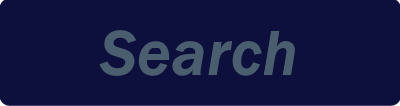
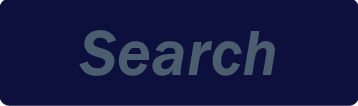
Minor improvements to GUI and menu

diff --git a/src/image/blender/State/BlendState.java b/src/image/blender/State/BlendState.java
@@ -5,6 +5,7 @@ import image.blender.Manager.Content;
 import image.blender.Manager.Input;
 import image.blender.Manager.StateManager;
 
+import java.awt.BasicStroke;
 import java.awt.Color;
 import java.awt.Font;
 import java.awt.FontMetrics;
@@ -22,7 +23,7 @@ import javax.imageio.ImageIO;
 public class BlendState extends State
 {
 	private int timer = 0;
-	private int waitTime = 30;
+	private int waitTime = MIN_WAIT_TIME * NUM_SPEEDS;
 	private boolean paused = false;
 
 	private int index = 0;
@@ -33,9 +34,12 @@ public class BlendState extends State
 	private boolean loading = true;
 	private ArrayList<String> loadStatus = new ArrayList<String>();
 
+	// TODO Increase margins
 	public static final int IMAGE_WIDTH = 1000;
 	public static final int IMAGE_HEIGHT = 1000;
-	public static final int NUM_PAGES = 1;
+	public static final int MIN_WAIT_TIME = 20;
+	public static final int NUM_SPEEDS = 3;
+	public static final int NUM_PAGES = 3;
 
 	public BlendState(StateManager sm)
 	{
@@ -87,6 +91,17 @@ public class BlendState extends State
 			{
 				// Loading the image
 				image = ImageIO.read(new URL(links.get(index)));
+				Thread load = new Thread(new Runnable()
+				{
+					public void run()
+					{
+						// content would be probably some Image class or byte[]
+
+						// or:
+						// InputStream in = Loc.openStream();
+						// read image from in
+					}
+				});
 
 				// Scaling and cropping the image
 				int xOffset = (image.getWidth() > image.getHeight())? (image.getWidth() - image.getHeight()) / 2 : 0;
@@ -189,9 +204,11 @@ public class BlendState extends State
 		}
 		else
 		{
+			// Draw images
 			g.drawImage(images.get(index), 40, 40, 800, 800, null);
 			g.drawImage(composite, 880, 40, IMAGE_WIDTH, IMAGE_HEIGHT, null);
 
+			// Draw buttons and glow effects
 			if(Input.mouseInRect(40, 880, 170, 160))
 			{
 				g.drawImage(
@@ -220,11 +237,95 @@ public class BlendState extends State
 			g.fillRect(460, 880, 170, 160);
 			g.fillRect(670, 880, 170, 160);
 
+			// Draw image counter
 			g.setColor(Color.WHITE);
 			g.setFont(new Font(Font.SANS_SERIF, Font.BOLD, 48));
 			FontMetrics fontMetrics = g.getFontMetrics();
 			String text = index + 1 + " / " + images.size();
 			g.drawString(text, 755 - fontMetrics.stringWidth(text) / 2, 960 + fontMetrics.getHeight() / 4);
+
+			// Draw hover tooltip
+			g.setFont(new Font(Font.SANS_SERIF, Font.BOLD, 16));
+			fontMetrics = g.getFontMetrics();
+			String[] tooltipText = new String[0];
+			int tooltipX = Input.mouseX() + 20;
+			int tooltipY = Input.mouseY();
+			int tooltipWidth = 20;
+			int tooltipHeight = 10;
+			if(Input.mouseInRect(880, 40, IMAGE_WIDTH, IMAGE_HEIGHT))
+			{
+				tooltipText = new String[2];
+				tooltipText[0] = "Blended Image:";
+				tooltipText[1] = "The blended result of your Google image search.";
+			}
+			else if(Input.mouseInRect(40, 40, 800, 800))
+			{
+				tooltipText = new String[2];
+				tooltipText[0] = "Last Image:";
+				tooltipText[1] = "The last image added";
+			}
+			else if(Input.mouseInRect(40, 880, 170, 160))
+			{
+				tooltipText = new String[2];
+				tooltipText[0] = "Pause Button:";
+				tooltipText[1] = "Pauses the image blending process.";
+			}
+			else if(Input.mouseInRect(250, 880, 170, 160))
+			{
+				tooltipText = new String[3];
+				tooltipText[0] = "Speed Button:";
+				tooltipText[1] = "Changes the image blending speed.";
+				tooltipText[2] = "Switches between 1x, 2x, and 3x.";
+			}
+			else if(Input.mouseInRect(460, 880, 170, 160))
+			{
+				tooltipText = new String[2];
+				tooltipText[0] = "Exit:";
+				tooltipText[1] = "Return to the main menu.";
+			}
+			else if(Input.mouseInRect(670, 880, 170, 160))
+			{
+				tooltipText = new String[3];
+				tooltipText[0] = "Image Counter:";
+				tooltipText[1] = "Displays the number of images added and";
+				tooltipText[2] = "the total number of images to be added.";
+			}
+			for(String line : tooltipText)
+			{
+				tooltipWidth = Math.max(tooltipWidth, fontMetrics.stringWidth(line) + 20);
+				tooltipHeight += fontMetrics.getHeight() / 2 + 10;
+			}
+			// TODO Simplify with ternary conditions
+			if(tooltipX < 0)
+			{
+				tooltipX = 0;
+			}
+			else if(tooltipX + tooltipWidth + 20 > Panel.WIDTH)
+			{
+				tooltipX = Panel.WIDTH - tooltipWidth;
+			}
+			if(tooltipY < 0)
+			{
+				tooltipY = 0;
+			}
+			else if(tooltipY + tooltipHeight + 30 > Panel.HEIGHT)
+			{
+				tooltipY = Panel.HEIGHT - tooltipHeight;
+			}
+			g.setColor(Color.LIGHT_GRAY);
+			g.fillRect(tooltipX, tooltipY, tooltipWidth, tooltipHeight);
+			g.setStroke(new BasicStroke(3));
+			g.setColor(Color.GRAY);
+			g.drawRect(tooltipX, tooltipY, tooltipWidth, tooltipHeight);
+			g.setColor(Color.BLACK);
+			if(tooltipText.length > 0)
+			{
+				for(int count = 0; count < tooltipText.length; count++)
+				{
+					String line = tooltipText[count];
+					g.drawString(line, tooltipX + 10, tooltipY + (fontMetrics.getHeight() / 2 + 10) * (count + 1));
+				}
+			}
 		}
 	}
 
@@ -244,18 +345,21 @@ public class BlendState extends State
 			{
 				if(Input.mouseInRect(40, 880, 170, 160))
 				{
+					// Pausing the process
 					paused = !paused;
 				}
 				else if(Input.mouseInRect(250, 880, 170, 160))
 				{
-					waitTime -= 10;
+					// Changing process speed
+					waitTime -= MIN_WAIT_TIME;
 					if(waitTime == 0)
 					{
-						waitTime = 30;
+						waitTime = MIN_WAIT_TIME * NUM_SPEEDS;
 					}
 				}
 				else if(Input.mouseInRect(460, 880, 170, 160))
 				{
+					// Quitting to main menu
 					sm.setState(StateManager.MENU);
 				}
 			}

diff --git a/src/image/blender/State/MenuState.java b/src/image/blender/State/MenuState.java
@@ -5,6 +5,7 @@ import image.blender.Manager.Content;
 import image.blender.Manager.Input;
 import image.blender.Manager.StateManager;
 
+import java.awt.AlphaComposite;
 import java.awt.Color;
 import java.awt.Font;
 import java.awt.FontMetrics;
@@ -15,12 +16,12 @@ import javax.swing.JOptionPane;
 
 public class MenuState extends State
 {
-	private int lineIndex;
+	private int lineIndex = -1;
 	private int timer;
 
 	private ArrayList<String> text = new ArrayList<String>();
 
-	public static final int FADE_DURATION = 50;
+	public static final int FADE_DURATION = 30;
 
 	public MenuState(StateManager sm)
 	{
@@ -40,11 +41,11 @@ public class MenuState extends State
 	{
 		handleInput();
 
-		if(lineIndex < text.size())
+		if(lineIndex <= text.size())
 		{
 			if(timer == FADE_DURATION)
 			{
-				if(lineIndex < text.size() - 1)
+				if(lineIndex < text.size())
 				{
 					lineIndex++;
 					timer = 0;
@@ -60,15 +61,30 @@ public class MenuState extends State
 	@Override
 	public void render(Graphics2D g)
 	{
+		// Drawing the background
 		g.drawImage(Content.getImage(Content.MENU_BACKGROUND), 0, 0, null);
+		
+		// Drawing the title
 		g.setColor(Color.BLACK);
 		g.setFont(new Font(Font.SANS_SERIF, Font.BOLD, 72));
 		FontMetrics fontMetrics = g.getFontMetrics();
 		String title = "Google Image Blender";
-		g.drawString(title, Panel.WIDTH / 2 - fontMetrics.stringWidth(title) / 2, 200);
+		if(lineIndex == -1)
+		{
+			AlphaComposite ac = AlphaComposite.getInstance(AlphaComposite.SRC_OVER, (float)timer / FADE_DURATION);
+			Graphics2D temp = (Graphics2D)g.create();
+			temp.setComposite(ac);
+			temp.drawString(title, Panel.WIDTH / 2 - fontMetrics.stringWidth(title) / 2, 200);
+		}
+		else
+		{
+			g.drawString(title, Panel.WIDTH / 2 - fontMetrics.stringWidth(title) / 2, 200);
+		}
+		
+		// Drawing description text
 		g.setFont(new Font(Font.SANS_SERIF, Font.BOLD, 40));
 		fontMetrics = g.getFontMetrics();
-		for(int count = 0; count <= lineIndex; count++)
+		for(int count = 0; count <= Math.min(lineIndex, text.size() - 1); count++)
 		{
 			String line = text.get(count);
 			if(count == lineIndex)
@@ -77,14 +93,25 @@ public class MenuState extends State
 			}
 			g.drawString(line, Panel.WIDTH / 2 - fontMetrics.stringWidth(line) / 2, 350 + count * 80);
 		}
-		if(lineIndex == text.size() - 1 && timer == FADE_DURATION)
+		
+		// Drawing buttons
+		if(lineIndex == text.size())
 		{
-			if(Input.mouseInRect(760, 900, 400, 106))
+			AlphaComposite ac = AlphaComposite.getInstance(AlphaComposite.SRC_OVER, (float)timer / FADE_DURATION);
+			Graphics2D temp = (Graphics2D)g.create();
+			temp.setComposite(ac);
+			if(Input.mouseInRect(552, 900, 358, 106))
 			{
-				g.drawImage(Content.getImage(Input.mouseLeftDown()? Content.GLOW_RECTANGLE_CLICK
-						: Content.GLOW_RECTANGLE_HOVER), 730, 870, null);
+				temp.drawImage(Content.getImage(Input.mouseLeftDown()? Content.GLOW_RECTANGLE_CLICK
+						: Content.GLOW_RECTANGLE_HOVER), 522, 870, null);
 			}
-			g.drawImage(Content.getImage(Content.BUTTON_SEARCH), 760, 900, null);
+			if(Input.mouseInRect(1010, 900, 358, 106))
+			{
+				temp.drawImage(Content.getImage(Input.mouseLeftDown()? Content.GLOW_RECTANGLE_CLICK
+						: Content.GLOW_RECTANGLE_HOVER), 980, 870, null);
+			}
+			temp.drawImage(Content.getImage(Content.BUTTON_SEARCH), 552, 900, null);
+			temp.drawImage(Content.getImage(Content.BUTTON_QUIT), 1010, 900, null);
 		}
 	}
 
@@ -93,19 +120,26 @@ public class MenuState extends State
 	{
 		if(Input.mouseLeftRelease())
 		{
-			if(lineIndex == text.size() - 1 && timer == FADE_DURATION && Input.mouseInRect(760, 900, 400, 106))
+			if(lineIndex == text.size() && timer == FADE_DURATION)
 			{
-				String query = JOptionPane.showInputDialog("Search:");
-				if(query != null && !query.equals(""))
+				if(Input.mouseInRect(552, 900, 358, 106))
 				{
-					data.setSearch(query);
-					sm.setState(StateManager.BLEND);
+					String query = JOptionPane.showInputDialog("Search:");
+					if(query != null && !query.equals(""))
+					{
+						data.setSearch(query);
+						sm.setState(StateManager.BLEND);
+					}
+				}
+				else if(Input.mouseInRect(1010, 900, 358, 106))
+				{
+					System.exit(0);
 				}
 			}
-			else if(lineIndex < text.size() - 1)
+			else if(lineIndex < text.size())
 			{
 				lineIndex++;
-				while(text.get(lineIndex).equals(""))
+				while(lineIndex < text.size() - 1 && text.get(lineIndex).equals(""))
 				{
 					lineIndex++;
 				}

diff --git a/src/image/blender/Manager/Content.java b/src/image/blender/Manager/Content.java
@@ -18,11 +18,12 @@ import javax.imageio.ImageIO;
 public class Content
 {
 	public static ImageData MENU_BACKGROUND = new ImageData("/menu_background.png", 1920, 1080);
-	public static ImageData BUTTON_SEARCH = new ImageData("/button_search.png", 400, 106);
+	public static ImageData BUTTON_SEARCH = new ImageData("/button_search.png", 358, 106);
+	public static ImageData BUTTON_QUIT = new ImageData("/button_quit.png", 358, 106);
 	public static ImageData GLOW_SQUARE_CLICK = new ImageData("/glow_square_click.png", 230, 220);
 	public static ImageData GLOW_SQUARE_HOVER = new ImageData("/glow_square_hover.png", 230, 220);
-	public static ImageData GLOW_RECTANGLE_CLICK = new ImageData("/glow_rectangle_click.png", 460, 166);
-	public static ImageData GLOW_RECTANGLE_HOVER = new ImageData("/glow_rectangle_hover.png", 460, 166);
+	public static ImageData GLOW_RECTANGLE_CLICK = new ImageData("/glow_rectangle_click.png", 418, 166);
+	public static ImageData GLOW_RECTANGLE_HOVER = new ImageData("/glow_rectangle_hover.png", 418, 166);
 
 	// Storage
 	private static HashMap<ImageData, BufferedImage> imageMap;
